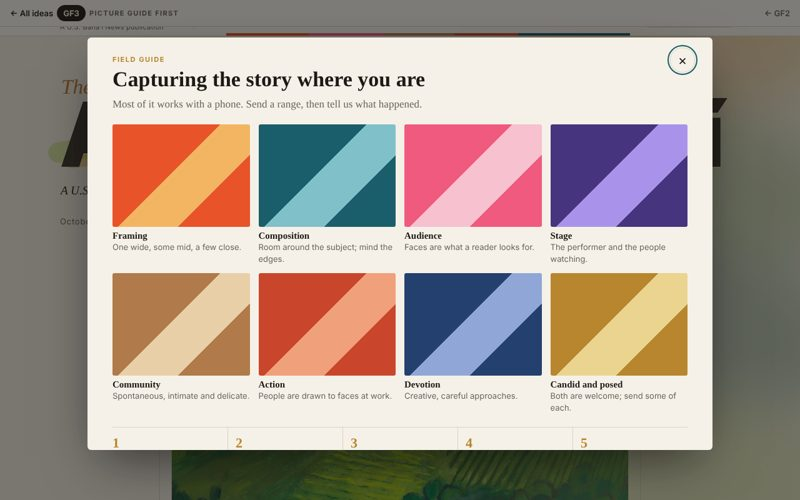
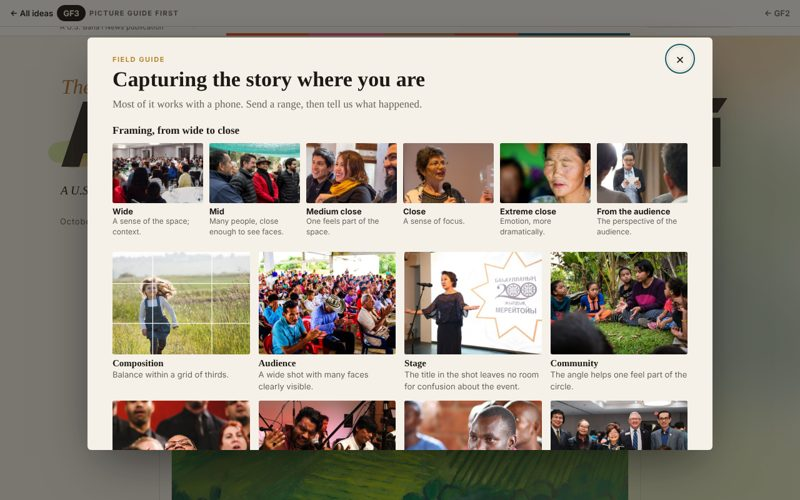
Labs guided forms: photographs from the Capturing Content guide
Claude-Session: https://claude.ai/code/session_01X5WmVuL6UKnR1PWG9zHA7Q

diff --git a/magazine/labs/form-pictures/index.html b/magazine/labs/form-pictures/index.html
@@ -112,11 +112,16 @@ textarea{resize:vertical}
 .p3f{border-top:3px double var(--ink,#1d1a16);padding-top:18px}
 @media (max-width:760px){.p1,.gs.ga,.g2{grid-template-columns:minmax(0,1fr)}.p1g{position:static}.gmom,.gbrs{grid-template-columns:repeat(2,minmax(0,1fr))}.ghb5{grid-template-columns:minmax(0,1fr)}.ghb5 li+li{border-left:0;border-top:1px solid var(--rule,#d6cebf);padding-left:0}.gstrip{grid-template-columns:repeat(4,minmax(0,1fr))}.gp-sw button{padding:10px 9px}.gp-sw button span{display:none}}
 
+.gstrip img,.gmom img,.gframe img,.grange img{display:block;width:100%;object-fit:cover;border-radius:3px;background:var(--rule,#e6dfd2)}
+.gstrip img{aspect-ratio:1}.gmom img{aspect-ratio:4/3}.gframe img{aspect-ratio:3/2}.grange img{aspect-ratio:3/2}
+.gfh{font:700 17px var(--text);margin:0 0 10px}.gframe{display:grid;grid-template-columns:repeat(6,minmax(0,1fr));gap:10px;margin:0 0 24px}.gframe figure,.grange figure{margin:0}.gframe figcaption{font:12px/1.35 var(--ui);color:var(--mute);margin-top:5px}.gframe b{display:block;color:var(--ink,#1d1a16);font:700 13px var(--ui)}
+.grange{display:grid;grid-template-columns:repeat(3,minmax(0,1fr));gap:6px;margin-top:6px}.grange figcaption{font:600 11px var(--ui);color:var(--mute);margin-top:3px}
+@media (max-width:760px){.gframe{grid-template-columns:repeat(3,minmax(0,1fr))}}
 .gp{padding-top:56px}.gbox{max-height:calc(100% - 8px)}.gtop{display:none}.gbox{padding-top:28px}
 .gx2{position:sticky;top:-28px;float:right;margin:-14px -8px 0 0;width:40px;height:40px;border:1px solid var(--rule,#d6cebf);background:var(--paper,#f5f1e8);border-radius:50%;font:400 22px/1 var(--ui);color:inherit;cursor:pointer;z-index:3}
 .reopen2{position:fixed;right:max(16px,env(safe-area-inset-right,0px));bottom:max(16px,env(safe-area-inset-bottom,0px));z-index:90;font:600 14px var(--ui);background:#23406f;color:#fff;border:0;border-radius:3px;padding:14px 18px;cursor:pointer}
 .gdone{padding:24px 0}.gdone h3{font:700 24px var(--text);margin:0 0 6px}.gdone p{font:17px/1.5 var(--text);color:var(--mute);margin:0}
-</style></head><body><nav class="bar0" aria-label="Guided forms"><a href="../">← All ideas</a><span class="cd">GF3</span><b>Picture guide first</b><span class="pn2"><a href="../form-steps/">← GF2</a></span></nav><iframe class="behind" src="../../" title="The magazine, behind the form" tabindex="-1" aria-hidden="true" inert></iframe><button type="button" class="reopen2" hidden>Send a story <span aria-hidden="true">→</span></button><div class="gp"><div class="gbk0"></div><div class="gbox" role="dialog" aria-modal="true" aria-label="Picture guide first"><button type="button" class="gx2" aria-label="Close">×</button><div class="p3"><p class="gk">Field guide</p><h2 class="gh">Capturing the story where you are</h2><p class="gl">Most of it works with a phone. Send a range, then tell us what happened.</p><div class="gmom"><figure><span style="background:linear-gradient(135deg,#e8532a 0 45%,#f3b562 45% 70%,#e8532a 70%)"></span><figcaption><b>Framing</b>One wide, some mid, a few close.</figcaption></figure><figure><span style="background:linear-gradient(135deg,#1b5e6b 0 45%,#7fc0c9 45% 70%,#1b5e6b 70%)"></span><figcaption><b>Composition</b>Room around the subject; mind the edges.</figcaption></figure><figure><span style="background:linear-gradient(135deg,#f05a7e 0 45%,#f7c1cf 45% 70%,#f05a7e 70%)"></span><figcaption><b>Audience</b>Faces are what a reader looks for.</figcaption></figure><figure><span style="background:linear-gradient(135deg,#46347e 0 45%,#a993ea 45% 70%,#46347e 70%)"></span><figcaption><b>Stage</b>The performer and the people watching.</figcaption></figure><figure><span style="background:linear-gradient(135deg,#b07a4a 0 45%,#e9cfa8 45% 70%,#b07a4a 70%)"></span><figcaption><b>Community</b>Spontaneous, intimate and delicate.</figcaption></figure><figure><span style="background:linear-gradient(135deg,#c9462c 0 45%,#f0a07a 45% 70%,#c9462c 70%)"></span><figcaption><b>Action</b>People are drawn to faces at work.</figcaption></figure><figure><span style="background:linear-gradient(135deg,#23406f 0 45%,#8fa6d6 45% 70%,#23406f 70%)"></span><figcaption><b>Devotion</b>Creative, careful approaches.</figcaption></figure><figure><span style="background:linear-gradient(135deg,#b8862e 0 45%,#ead48f 45% 70%,#b8862e 70%)"></span><figcaption><b>Candid and posed</b>Both are welcome; send some of each.</figcaption></figure></div><ol class="ghb5"><li><i>1</i>Be conscientious of your presence in the space</li><li><i>2</i>Keep a steady hand</li><li><i>3</i>Review your work on a bigger screen</li><li><i>4</i>Capture a series of angles</li><li><i>5</i>Be ready for spontaneous moments</li></ol><div class="p3f"><p class="gk">Contribute</p><h2 class="gh">Know a story like these?</h2><p class="gl">Please send us story ideas, article leads, photos of community activities, your field notes on how community building unfolds where you live, and what is being learned along the way.</p><section class="gs"><div><h3><i>1</i>What happened, and where</h3><label class="gf"><span>Where</span><input type="text" data-r="3" placeholder="Town or neighborhood, state"></label><label class="gf"><span>What happened</span><textarea rows="3" data-r="5"></textarea><small>A few paragraphs is plenty.</small></label></div></section><section class="gs"><div><h3><i>2</i>Who was there</h3><label class="gf"><span>Who was there</span><textarea rows="2"></textarea></label></div></section><section class="gs"><div><h3><i>3</i>A photograph or two</h3><label class="gdrop"><input type="file" multiple accept="image/jpeg,image/png" data-r="0"><b>Choose photographs</b><small>JPEG or PNG, as many as you like</small></label><label class="gf"><span>Photographer’s name</span><input type="text" data-r="1"></label></div></section><section class="gs"><div><h3><i>4</i>What you learned</h3><label class="gf"><span>What you learned</span><textarea rows="2" data-r="5"></textarea></label></div></section><div class="gab"><p class="gk">About you</p><div class="g2"><label class="gf"><span>Your name</span><input type="text"></label><label class="gf"><span>Email address</span><input type="email"></label></div><p class="gpr">We will get in touch and work with you before anything you share is used.</p><button type="button" class="gsend">Send your story</button></div></div></div></div></div><script>(function(){var D=document,P=D.querySelector('.gp'),R=D.querySelector('.reopen2');
+</style></head><body><nav class="bar0" aria-label="Guided forms"><a href="../">← All ideas</a><span class="cd">GF3</span><b>Picture guide first</b><span class="pn2"><a href="../form-steps/">← GF2</a></span></nav><iframe class="behind" src="../../" title="The magazine, behind the form" tabindex="-1" aria-hidden="true" inert></iframe><button type="button" class="reopen2" hidden>Send a story <span aria-hidden="true">→</span></button><div class="gp"><div class="gbk0"></div><div class="gbox" role="dialog" aria-modal="true" aria-label="Picture guide first"><button type="button" class="gx2" aria-label="Close">×</button><div class="p3"><p class="gk">Field guide</p><h2 class="gh">Capturing the story where you are</h2><p class="gl">Most of it works with a phone. Send a range, then tell us what happened.</p><h3 class="gfh">Framing, from wide to close</h3><div class="gframe"><figure><img src="../../img/guide/wide.jpg" alt="" loading="lazy"><figcaption><b>Wide</b>A sense of the space; context.</figcaption></figure><figure><img src="../../img/guide/mid.jpg" alt="" loading="lazy"><figcaption><b>Mid</b>Many people, close enough to see faces.</figcaption></figure><figure><img src="../../img/guide/medium-close.jpg" alt="" loading="lazy"><figcaption><b>Medium close</b>One feels part of the space.</figcaption></figure><figure><img src="../../img/guide/close.jpg" alt="" loading="lazy"><figcaption><b>Close</b>A sense of focus.</figcaption></figure><figure><img src="../../img/guide/extreme-close.jpg" alt="" loading="lazy"><figcaption><b>Extreme close</b>Emotion, more dramatically.</figcaption></figure><figure><img src="../../img/guide/audience-view.jpg" alt="" loading="lazy"><figcaption><b>From the audience</b>The perspective of the audience.</figcaption></figure></div><div class="gmom"><figure><img src="../../img/guide/thirds.jpg" alt="" loading="lazy"><figcaption><b>Composition</b>Balance within a grid of thirds.</figcaption></figure><figure><img src="../../img/guide/audience-wide.jpg" alt="" loading="lazy"><figcaption><b>Audience</b>A wide shot with many faces clearly visible.</figcaption></figure><figure><img src="../../img/guide/stage-title.jpg" alt="" loading="lazy"><figcaption><b>Stage</b>The title in the shot leaves no room for confusion about the event.</figcaption></figure><figure><img src="../../img/guide/circle.jpg" alt="" loading="lazy"><figcaption><b>Community</b>The angle helps one feel part of the circle.</figcaption></figure><figure><img src="../../img/guide/action-focus.jpg" alt="" loading="lazy"><figcaption><b>Action</b>Focus on one person, blur the rest.</figcaption></figure><figure><img src="../../img/guide/devotion.jpg" alt="" loading="lazy"><figcaption><b>Devotion</b>Different forms; creative, careful approaches.</figcaption></figure><figure><img src="../../img/guide/candid.jpg" alt="" loading="lazy"><figcaption><b>Candid</b>Both are welcome.</figcaption></figure><figure><img src="../../img/guide/posed.jpg" alt="" loading="lazy"><figcaption><b>Posed</b>No group is too small.</figcaption></figure></div><ol class="ghb5"><li><i>1</i>Be conscientious of your presence in the space</li><li><i>2</i>Keep a steady hand</li><li><i>3</i>Review your work on a bigger screen</li><li><i>4</i>Capture a series of angles</li><li><i>5</i>Be ready for spontaneous moments</li></ol><div class="p3f"><p class="gk">Contribute</p><h2 class="gh">Know a story like these?</h2><p class="gl">Please send us story ideas, article leads, photos of community activities, your field notes on how community building unfolds where you live, and what is being learned along the way.</p><section class="gs"><div><h3><i>1</i>What happened, and where</h3><label class="gf"><span>Where</span><input type="text" data-r="3" placeholder="Town or neighborhood, state"></label><label class="gf"><span>What happened</span><textarea rows="3" data-r="5"></textarea><small>A few paragraphs is plenty.</small></label></div></section><section class="gs"><div><h3><i>2</i>Who was there</h3><label class="gf"><span>Who was there</span><textarea rows="2"></textarea></label></div></section><section class="gs"><div><h3><i>3</i>A photograph or two</h3><label class="gdrop"><input type="file" multiple accept="image/jpeg,image/png" data-r="0"><b>Choose photographs</b><small>JPEG or PNG, as many as you like</small></label><label class="gf"><span>Photographer’s name</span><input type="text" data-r="1"></label></div></section><section class="gs"><div><h3><i>4</i>What you learned</h3><label class="gf"><span>What you learned</span><textarea rows="2" data-r="5"></textarea></label></div></section><div class="gab"><p class="gk">About you</p><div class="g2"><label class="gf"><span>Your name</span><input type="text"></label><label class="gf"><span>Email address</span><input type="email"></label></div><p class="gpr">We will get in touch and work with you before anything you share is used.</p><button type="button" class="gsend">Send your story</button></div></div></div></div></div><script>(function(){var D=document,P=D.querySelector('.gp'),R=D.querySelector('.reopen2');
 function op(){P.hidden=false;R.hidden=true;D.querySelector('.gx2').focus()}function cl(){P.hidden=true;R.hidden=false;R.focus()}
 D.querySelector('.gx2').onclick=cl;D.querySelector('.gbk0').onclick=cl;R.onclick=op;D.addEventListener('keydown',function(e){if(e.key==='Escape'&&!P.hidden)cl()});
 var p1=D.querySelector('.p1');if(p1){var tick=function(){var on=[0,0,0,0,0,0];[].forEach.call(p1.querySelectorAll('[data-r]'),function(f){var r=+f.dataset.r,v=f.type==='checkbox'?f.checked:f.type==='file'?f.files.length:f.value.trim();if(v){on[r]=1;if(r===0)on[4]=1}});

diff --git a/magazine/labs/form-steps/index.html b/magazine/labs/form-steps/index.html
@@ -112,11 +112,16 @@ textarea{resize:vertical}
 .p3f{border-top:3px double var(--ink,#1d1a16);padding-top:18px}
 @media (max-width:760px){.p1,.gs.ga,.g2{grid-template-columns:minmax(0,1fr)}.p1g{position:static}.gmom,.gbrs{grid-template-columns:repeat(2,minmax(0,1fr))}.ghb5{grid-template-columns:minmax(0,1fr)}.ghb5 li+li{border-left:0;border-top:1px solid var(--rule,#d6cebf);padding-left:0}.gstrip{grid-template-columns:repeat(4,minmax(0,1fr))}.gp-sw button{padding:10px 9px}.gp-sw button span{display:none}}
 
+.gstrip img,.gmom img,.gframe img,.grange img{display:block;width:100%;object-fit:cover;border-radius:3px;background:var(--rule,#e6dfd2)}
+.gstrip img{aspect-ratio:1}.gmom img{aspect-ratio:4/3}.gframe img{aspect-ratio:3/2}.grange img{aspect-ratio:3/2}
+.gfh{font:700 17px var(--text);margin:0 0 10px}.gframe{display:grid;grid-template-columns:repeat(6,minmax(0,1fr));gap:10px;margin:0 0 24px}.gframe figure,.grange figure{margin:0}.gframe figcaption{font:12px/1.35 var(--ui);color:var(--mute);margin-top:5px}.gframe b{display:block;color:var(--ink,#1d1a16);font:700 13px var(--ui)}
+.grange{display:grid;grid-template-columns:repeat(3,minmax(0,1fr));gap:6px;margin-top:6px}.grange figcaption{font:600 11px var(--ui);color:var(--mute);margin-top:3px}
+@media (max-width:760px){.gframe{grid-template-columns:repeat(3,minmax(0,1fr))}}
 .gp{padding-top:56px}.gbox{max-height:calc(100% - 8px)}.gtop{display:none}.gbox{padding-top:28px}
 .gx2{position:sticky;top:-28px;float:right;margin:-14px -8px 0 0;width:40px;height:40px;border:1px solid var(--rule,#d6cebf);background:var(--paper,#f5f1e8);border-radius:50%;font:400 22px/1 var(--ui);color:inherit;cursor:pointer;z-index:3}
 .reopen2{position:fixed;right:max(16px,env(safe-area-inset-right,0px));bottom:max(16px,env(safe-area-inset-bottom,0px));z-index:90;font:600 14px var(--ui);background:#23406f;color:#fff;border:0;border-radius:3px;padding:14px 18px;cursor:pointer}
 .gdone{padding:24px 0}.gdone h3{font:700 24px var(--text);margin:0 0 6px}.gdone p{font:17px/1.5 var(--text);color:var(--mute);margin:0}
-</style></head><body><nav class="bar0" aria-label="Guided forms"><a href="../">← All ideas</a><span class="cd">GF2</span><b>Guidance at each step</b><span class="pn2"><a href="../form-beside/">← GF1</a><a href="../form-pictures/">GF3 →</a></span></nav><iframe class="behind" src="../../" title="The magazine, behind the form" tabindex="-1" aria-hidden="true" inert></iframe><button type="button" class="reopen2" hidden>Send a story <span aria-hidden="true">→</span></button><div class="gp"><div class="gbk0"></div><div class="gbox" role="dialog" aria-modal="true" aria-label="Guidance at each step"><button type="button" class="gx2" aria-label="Close">×</button><div class="p2"><p class="gk">Contribute</p><h2 class="gh">Know a story like these?</h2><p class="gl">Please send us story ideas, article leads, photos of community activities, your field notes on how community building unfolds where you live, and what is being learned along the way.</p><section class="gs ga"><div><h3><i>1</i>What happened, and where</h3><label class="gf"><span>Where</span><input type="text" data-r="3" placeholder="Town or neighborhood, state"></label><label class="gf"><span>What happened</span><textarea rows="3" data-r="5"></textarea><small>A few paragraphs is plenty.</small></label></div><aside><p class="gru"><b>Say where and when</b>Town or neighborhood, state, and the date.</p></aside></section><section class="gs ga"><div><h3><i>2</i>Who was there</h3><label class="gf"><span>Who was there</span><textarea rows="2"></textarea></label></div><aside><p class="gru"><b>Ask first</b>Everyone recognizable has agreed to be pictured. For children, a parent or guardian, and first names only.</p></aside></section><section class="gs ga"><div><h3><i>3</i>A photograph or two</h3><div class="gstrip" aria-label="Eight kinds of moment"><figure><span style="background:linear-gradient(135deg,#e8532a 0 45%,#f3b562 45% 70%,#e8532a 70%)"></span><figcaption>Framing</figcaption></figure><figure><span style="background:linear-gradient(135deg,#1b5e6b 0 45%,#7fc0c9 45% 70%,#1b5e6b 70%)"></span><figcaption>Composition</figcaption></figure><figure><span style="background:linear-gradient(135deg,#f05a7e 0 45%,#f7c1cf 45% 70%,#f05a7e 70%)"></span><figcaption>Audience</figcaption></figure><figure><span style="background:linear-gradient(135deg,#46347e 0 45%,#a993ea 45% 70%,#46347e 70%)"></span><figcaption>Stage</figcaption></figure><figure><span style="background:linear-gradient(135deg,#b07a4a 0 45%,#e9cfa8 45% 70%,#b07a4a 70%)"></span><figcaption>Community</figcaption></figure><figure><span style="background:linear-gradient(135deg,#c9462c 0 45%,#f0a07a 45% 70%,#c9462c 70%)"></span><figcaption>Action</figcaption></figure><figure><span style="background:linear-gradient(135deg,#23406f 0 45%,#8fa6d6 45% 70%,#23406f 70%)"></span><figcaption>Devotion</figcaption></figure><figure><span style="background:linear-gradient(135deg,#b8862e 0 45%,#ead48f 45% 70%,#b8862e 70%)"></span><figcaption>Candid and posed</figcaption></figure></div><label class="gdrop"><input type="file" multiple accept="image/jpeg,image/png" data-r="0"><b>Choose photographs</b><small>JPEG or PNG, as many as you like</small></label><label class="gf"><span>Photographer’s name</span><input type="text" data-r="1"></label></div><aside><p class="gru"><b>Send originals</b>Full-size files straight from the camera or phone, not screenshots or messaging copies.</p><p class="gru"><b>Name the photographer</b>Every picture carries a credit.</p><p class="gru"><b>Video</b>Steady and horizontal for the library; vertical welcome for social. Ten seconds per shot or longer.</p></aside></section><section class="gs ga"><div><h3><i>4</i>What you learned</h3><label class="gf"><span>What you learned</span><textarea rows="2" data-r="5"></textarea></label></div><aside><p class="gru"><b>A few lines</b>What happened and why it mattered, in your own words and in any language.</p></aside></section><div class="gab"><p class="gk">About you</p><div class="g2"><label class="gf"><span>Your name</span><input type="text"></label><label class="gf"><span>Email address</span><input type="email"></label></div><p class="gpr">We will get in touch and work with you before anything you share is used.</p><button type="button" class="gsend">Send your story</button></div></div></div></div><script>(function(){var D=document,P=D.querySelector('.gp'),R=D.querySelector('.reopen2');
+</style></head><body><nav class="bar0" aria-label="Guided forms"><a href="../">← All ideas</a><span class="cd">GF2</span><b>Guidance at each step</b><span class="pn2"><a href="../form-beside/">← GF1</a><a href="../form-pictures/">GF3 →</a></span></nav><iframe class="behind" src="../../" title="The magazine, behind the form" tabindex="-1" aria-hidden="true" inert></iframe><button type="button" class="reopen2" hidden>Send a story <span aria-hidden="true">→</span></button><div class="gp"><div class="gbk0"></div><div class="gbox" role="dialog" aria-modal="true" aria-label="Guidance at each step"><button type="button" class="gx2" aria-label="Close">×</button><div class="p2"><p class="gk">Contribute</p><h2 class="gh">Know a story like these?</h2><p class="gl">Please send us story ideas, article leads, photos of community activities, your field notes on how community building unfolds where you live, and what is being learned along the way.</p><section class="gs ga"><div><h3><i>1</i>What happened, and where</h3><label class="gf"><span>Where</span><input type="text" data-r="3" placeholder="Town or neighborhood, state"></label><label class="gf"><span>What happened</span><textarea rows="3" data-r="5"></textarea><small>A few paragraphs is plenty.</small></label></div><aside><p class="gru"><b>Say where and when</b>Town or neighborhood, state, and the date.</p></aside></section><section class="gs ga"><div><h3><i>2</i>Who was there</h3><label class="gf"><span>Who was there</span><textarea rows="2"></textarea></label></div><aside><p class="gru"><b>Ask first</b>Everyone recognizable has agreed to be pictured. For children, a parent or guardian, and first names only.</p></aside></section><section class="gs ga"><div><h3><i>3</i>A photograph or two</h3><div class="gstrip" aria-label="Eight kinds of moment"><figure><img src="../../img/guide/wide.jpg" alt="" loading="lazy"><figcaption>Framing</figcaption></figure><figure><img src="../../img/guide/thirds.jpg" alt="" loading="lazy"><figcaption>Composition</figcaption></figure><figure><img src="../../img/guide/reaction.jpg" alt="" loading="lazy"><figcaption>Audience</figcaption></figure><figure><img src="../../img/guide/stage-title.jpg" alt="" loading="lazy"><figcaption>Stage</figcaption></figure><figure><img src="../../img/guide/circle.jpg" alt="" loading="lazy"><figcaption>Community</figcaption></figure><figure><img src="../../img/guide/action-focus.jpg" alt="" loading="lazy"><figcaption>Action</figcaption></figure><figure><img src="../../img/guide/devotion.jpg" alt="" loading="lazy"><figcaption>Devotion</figcaption></figure><figure><img src="../../img/guide/candid.jpg" alt="" loading="lazy"><figcaption>Candid and posed</figcaption></figure></div><label class="gdrop"><input type="file" multiple accept="image/jpeg,image/png" data-r="0"><b>Choose photographs</b><small>JPEG or PNG, as many as you like</small></label><label class="gf"><span>Photographer’s name</span><input type="text" data-r="1"></label></div><aside><p class="gru"><b>Send originals</b>Full-size files straight from the camera or phone, not screenshots or messaging copies.</p><p class="gru"><b>Name the photographer</b>Every picture carries a credit.</p><p class="gru"><b>Video</b>Steady and horizontal for the library; vertical welcome for social. Ten seconds per shot or longer.</p></aside></section><section class="gs ga"><div><h3><i>4</i>What you learned</h3><label class="gf"><span>What you learned</span><textarea rows="2" data-r="5"></textarea></label></div><aside><p class="gru"><b>A few lines</b>What happened and why it mattered, in your own words and in any language.</p></aside></section><div class="gab"><p class="gk">About you</p><div class="g2"><label class="gf"><span>Your name</span><input type="text"></label><label class="gf"><span>Email address</span><input type="email"></label></div><p class="gpr">We will get in touch and work with you before anything you share is used.</p><button type="button" class="gsend">Send your story</button></div></div></div></div><script>(function(){var D=document,P=D.querySelector('.gp'),R=D.querySelector('.reopen2');
 function op(){P.hidden=false;R.hidden=true;D.querySelector('.gx2').focus()}function cl(){P.hidden=true;R.hidden=false;R.focus()}
 D.querySelector('.gx2').onclick=cl;D.querySelector('.gbk0').onclick=cl;R.onclick=op;D.addEventListener('keydown',function(e){if(e.key==='Escape'&&!P.hidden)cl()});
 var p1=D.querySelector('.p1');if(p1){var tick=function(){var on=[0,0,0,0,0,0];[].forEach.call(p1.querySelectorAll('[data-r]'),function(f){var r=+f.dataset.r,v=f.type==='checkbox'?f.checked:f.type==='file'?f.files.length:f.value.trim();if(v){on[r]=1;if(r===0)on[4]=1}});

diff --git a/magazine/labs/form-beside/index.html b/magazine/labs/form-beside/index.html
@@ -112,11 +112,16 @@ textarea{resize:vertical}
 .p3f{border-top:3px double var(--ink,#1d1a16);padding-top:18px}
 @media (max-width:760px){.p1,.gs.ga,.g2{grid-template-columns:minmax(0,1fr)}.p1g{position:static}.gmom,.gbrs{grid-template-columns:repeat(2,minmax(0,1fr))}.ghb5{grid-template-columns:minmax(0,1fr)}.ghb5 li+li{border-left:0;border-top:1px solid var(--rule,#d6cebf);padding-left:0}.gstrip{grid-template-columns:repeat(4,minmax(0,1fr))}.gp-sw button{padding:10px 9px}.gp-sw button span{display:none}}
 
+.gstrip img,.gmom img,.gframe img,.grange img{display:block;width:100%;object-fit:cover;border-radius:3px;background:var(--rule,#e6dfd2)}
+.gstrip img{aspect-ratio:1}.gmom img{aspect-ratio:4/3}.gframe img{aspect-ratio:3/2}.grange img{aspect-ratio:3/2}
+.gfh{font:700 17px var(--text);margin:0 0 10px}.gframe{display:grid;grid-template-columns:repeat(6,minmax(0,1fr));gap:10px;margin:0 0 24px}.gframe figure,.grange figure{margin:0}.gframe figcaption{font:12px/1.35 var(--ui);color:var(--mute);margin-top:5px}.gframe b{display:block;color:var(--ink,#1d1a16);font:700 13px var(--ui)}
+.grange{display:grid;grid-template-columns:repeat(3,minmax(0,1fr));gap:6px;margin-top:6px}.grange figcaption{font:600 11px var(--ui);color:var(--mute);margin-top:3px}
+@media (max-width:760px){.gframe{grid-template-columns:repeat(3,minmax(0,1fr))}}
 .gp{padding-top:56px}.gbox{max-height:calc(100% - 8px)}.gtop{display:none}.gbox{padding-top:28px}
 .gx2{position:sticky;top:-28px;float:right;margin:-14px -8px 0 0;width:40px;height:40px;border:1px solid var(--rule,#d6cebf);background:var(--paper,#f5f1e8);border-radius:50%;font:400 22px/1 var(--ui);color:inherit;cursor:pointer;z-index:3}
 .reopen2{position:fixed;right:max(16px,env(safe-area-inset-right,0px));bottom:max(16px,env(safe-area-inset-bottom,0px));z-index:90;font:600 14px var(--ui);background:#23406f;color:#fff;border:0;border-radius:3px;padding:14px 18px;cursor:pointer}
 .gdone{padding:24px 0}.gdone h3{font:700 24px var(--text);margin:0 0 6px}.gdone p{font:17px/1.5 var(--text);color:var(--mute);margin:0}
-</style></head><body><nav class="bar0" aria-label="Guided forms"><a href="../">← All ideas</a><span class="cd">GF1</span><b>Guide beside the form</b><span class="pn2"><a href="../form-steps/">GF2 →</a></span></nav><iframe class="behind" src="../../" title="The magazine, behind the form" tabindex="-1" aria-hidden="true" inert></iframe><button type="button" class="reopen2" hidden>Send a story <span aria-hidden="true">→</span></button><div class="gp"><div class="gbk0"></div><div class="gbox" role="dialog" aria-modal="true" aria-label="Guide beside the form"><button type="button" class="gx2" aria-label="Close">×</button><div class="p1"><div class="p1f"><p class="gk">Contribute</p><h2 class="gh">Know a story like these?</h2><p class="gl">Please send us story ideas, article leads, photos of community activities, your field notes on how community building unfolds where you live, and what is being learned along the way.</p><section class="gs"><div><h3><i>1</i>What happened, and where</h3><label class="gf"><span>Where</span><input type="text" data-r="3" placeholder="Town or neighborhood, state"></label><label class="gf"><span>What happened</span><textarea rows="3" data-r="5"></textarea><small>A few paragraphs is plenty.</small></label></div></section><section class="gs"><div><h3><i>2</i>Who was there</h3><label class="gf"><span>Who was there</span><textarea rows="2"></textarea></label></div></section><section class="gs"><div><h3><i>3</i>A photograph or two</h3><label class="gdrop"><input type="file" multiple accept="image/jpeg,image/png" data-r="0"><b>Choose photographs</b><small>JPEG or PNG, as many as you like</small></label><label class="gf"><span>Photographer’s name</span><input type="text" data-r="1"></label></div></section><section class="gs"><div><h3><i>4</i>What you learned</h3><label class="gf"><span>What you learned</span><textarea rows="2" data-r="5"></textarea></label></div></section><div class="gab"><p class="gk">About you</p><div class="g2"><label class="gf"><span>Your name</span><input type="text"></label><label class="gf"><span>Email address</span><input type="email"></label></div><p class="gpr">We will get in touch and work with you before anything you share is used.</p><button type="button" class="gsend">Send your story</button></div></div><aside class="p1g"><p class="gk">Before you send</p><p class="gready"><b>0</b> of 6 ready</p><ol class="grl"><li data-i="0"><span class="ck" aria-hidden="true"></span><div><b>Send originals</b><small>Full-size files straight from the camera or phone, not screenshots or messaging copies.</small></div></li><li data-i="1"><span class="ck" aria-hidden="true"></span><div><b>Name the photographer</b><small>Every picture carries a credit.</small></div></li><li data-i="2"><span class="ck" aria-hidden="true"></span><div><b>Ask first</b><small>Everyone recognizable has agreed to be pictured. For children, a parent or guardian, and first names only.</small><label class="gask"><input type="checkbox" data-r="2"> Everyone pictured has agreed</label></div></li><li data-i="3"><span class="ck" aria-hidden="true"></span><div><b>Say where and when</b><small>Town or neighborhood, state, and the date.</small></div></li><li data-i="4"><span class="ck" aria-hidden="true"></span><div><b>Video</b><small>Steady and horizontal for the library; vertical welcome for social. Ten seconds per shot or longer.</small><em>if you send any</em></div></li><li data-i="5"><span class="ck" aria-hidden="true"></span><div><b>A few lines</b><small>What happened and why it mattered, in your own words and in any language.</small></div></li></ol><p class="gk" style="margin-top:18px">Five habits</p><ol class="ghb"><li>Be conscientious of your presence in the space</li><li>Keep a steady hand</li><li>Review your work on a bigger screen</li><li>Capture a series of angles</li><li>Be ready for spontaneous moments</li></ol></aside></div></div></div><script>(function(){var D=document,P=D.querySelector('.gp'),R=D.querySelector('.reopen2');
+</style></head><body><nav class="bar0" aria-label="Guided forms"><a href="../">← All ideas</a><span class="cd">GF1</span><b>Guide beside the form</b><span class="pn2"><a href="../form-steps/">GF2 →</a></span></nav><iframe class="behind" src="../../" title="The magazine, behind the form" tabindex="-1" aria-hidden="true" inert></iframe><button type="button" class="reopen2" hidden>Send a story <span aria-hidden="true">→</span></button><div class="gp"><div class="gbk0"></div><div class="gbox" role="dialog" aria-modal="true" aria-label="Guide beside the form"><button type="button" class="gx2" aria-label="Close">×</button><div class="p1"><div class="p1f"><p class="gk">Contribute</p><h2 class="gh">Know a story like these?</h2><p class="gl">Please send us story ideas, article leads, photos of community activities, your field notes on how community building unfolds where you live, and what is being learned along the way.</p><section class="gs"><div><h3><i>1</i>What happened, and where</h3><label class="gf"><span>Where</span><input type="text" data-r="3" placeholder="Town or neighborhood, state"></label><label class="gf"><span>What happened</span><textarea rows="3" data-r="5"></textarea><small>A few paragraphs is plenty.</small></label></div></section><section class="gs"><div><h3><i>2</i>Who was there</h3><label class="gf"><span>Who was there</span><textarea rows="2"></textarea></label></div></section><section class="gs"><div><h3><i>3</i>A photograph or two</h3><label class="gdrop"><input type="file" multiple accept="image/jpeg,image/png" data-r="0"><b>Choose photographs</b><small>JPEG or PNG, as many as you like</small></label><label class="gf"><span>Photographer’s name</span><input type="text" data-r="1"></label></div></section><section class="gs"><div><h3><i>4</i>What you learned</h3><label class="gf"><span>What you learned</span><textarea rows="2" data-r="5"></textarea></label></div></section><div class="gab"><p class="gk">About you</p><div class="g2"><label class="gf"><span>Your name</span><input type="text"></label><label class="gf"><span>Email address</span><input type="email"></label></div><p class="gpr">We will get in touch and work with you before anything you share is used.</p><button type="button" class="gsend">Send your story</button></div></div><aside class="p1g"><p class="gk">Before you send</p><p class="gready"><b>0</b> of 6 ready</p><ol class="grl"><li data-i="0"><span class="ck" aria-hidden="true"></span><div><b>Send originals</b><small>Full-size files straight from the camera or phone, not screenshots or messaging copies.</small></div></li><li data-i="1"><span class="ck" aria-hidden="true"></span><div><b>Name the photographer</b><small>Every picture carries a credit.</small></div></li><li data-i="2"><span class="ck" aria-hidden="true"></span><div><b>Ask first</b><small>Everyone recognizable has agreed to be pictured. For children, a parent or guardian, and first names only.</small><label class="gask"><input type="checkbox" data-r="2"> Everyone pictured has agreed</label></div></li><li data-i="3"><span class="ck" aria-hidden="true"></span><div><b>Say where and when</b><small>Town or neighborhood, state, and the date.</small></div></li><li data-i="4"><span class="ck" aria-hidden="true"></span><div><b>Video</b><small>Steady and horizontal for the library; vertical welcome for social. Ten seconds per shot or longer.</small><em>if you send any</em></div></li><li data-i="5"><span class="ck" aria-hidden="true"></span><div><b>A few lines</b><small>What happened and why it mattered, in your own words and in any language.</small></div></li></ol><p class="gk" style="margin-top:18px">Five habits</p><ol class="ghb"><li>Be conscientious of your presence in the space</li><li>Keep a steady hand</li><li>Review your work on a bigger screen</li><li>Capture a series of angles</li><li>Be ready for spontaneous moments</li></ol><p class="gk" style="margin-top:18px">Send a range</p><div class="grange"><figure><img src="../../img/guide/wide.jpg" alt="" loading="lazy"><figcaption>Wide</figcaption></figure><figure><img src="../../img/guide/mid.jpg" alt="" loading="lazy"><figcaption>Mid</figcaption></figure><figure><img src="../../img/guide/close.jpg" alt="" loading="lazy"><figcaption>Close</figcaption></figure></div></aside></div></div></div><script>(function(){var D=document,P=D.querySelector('.gp'),R=D.querySelector('.reopen2');
 function op(){P.hidden=false;R.hidden=true;D.querySelector('.gx2').focus()}function cl(){P.hidden=true;R.hidden=false;R.focus()}
 D.querySelector('.gx2').onclick=cl;D.querySelector('.gbk0').onclick=cl;R.onclick=op;D.addEventListener('keydown',function(e){if(e.key==='Escape'&&!P.hidden)cl()});
 var p1=D.querySelector('.p1');if(p1){var tick=function(){var on=[0,0,0,0,0,0];[].forEach.call(p1.querySelectorAll('[data-r]'),function(f){var r=+f.dataset.r,v=f.type==='checkbox'?f.checked:f.type==='file'?f.files.length:f.value.trim();if(v){on[r]=1;if(r===0)on[4]=1}});

diff --git a/build/guided_forms.py b/build/guided_forms.py
@@ -6,6 +6,15 @@ RULES = [("Send originals", "Full-size files straight from the camera or phone, 
          ("Video", "Steady and horizontal for the library; vertical welcome for social. Ten seconds per shot or longer."),
          ("A few lines", "What happened and why it mattered, in your own words and in any language.")]
 HABITS = ["Be conscientious of your presence in the space", "Keep a steady hand", "Review your work on a bigger screen", "Capture a series of angles", "Be ready for spontaneous moments"]
+IMG = "../../img/guide/"
+FRAME = [("wide", "Wide", "A sense of the space; context."), ("mid", "Mid", "Many people, close enough to see faces."), ("medium-close", "Medium close", "One feels part of the space."),
+         ("close", "Close", "A sense of focus."), ("extreme-close", "Extreme close", "Emotion, more dramatically."), ("audience-view", "From the audience", "The perspective of the audience.")]
+SHOTS = [("thirds", "Composition", "Balance within a grid of thirds."), ("audience-wide", "Audience", "A wide shot with many faces clearly visible."),
+         ("stage-title", "Stage", "The title in the shot leaves no room for confusion about the event."), ("circle", "Community", "The angle helps one feel part of the circle."),
+         ("action-focus", "Action", "Focus on one person, blur the rest."), ("devotion", "Devotion", "Different forms; creative, careful approaches."),
+         ("candid", "Candid", "Both are welcome."), ("posed", "Posed", "No group is too small.")]
+STRIP = ["wide", "thirds", "reaction", "stage-title", "circle", "action-focus", "devotion", "candid"]
+def ph(f, alt=""): return f'<img src="{IMG}{f}.jpg" alt="{alt}" loading="lazy">'
 MOM = [("Framing", "One wide, some mid, a few close.", "#e8532a", "#f3b562"),
        ("Composition", "Room around the subject; mind the edges.", "#1b5e6b", "#7fc0c9"),
        ("Audience", "Faces are what a reader looks for.", "#f05a7e", "#f7c1cf"),
@@ -42,17 +51,19 @@ def form(asides=None):
 # P1 guide beside the form, rules tick as fields fill
 p1_rules = "".join(f'<li data-i="{i}"><span class="ck" aria-hidden="true"></span><div><b>{a}</b><small>{b}</small>' + ('<label class="gask"><input type="checkbox" data-r="2"> Everyone pictured has agreed</label>' if i == 2 else '') + ('<em>if you send any</em>' if i == 4 else '') + '</div></li>' for i, (a, b) in enumerate(RULES))
 P1 = (f'<div class="p1"><div class="p1f">{HEAD}{form()}</div><aside class="p1g"><p class="gk">Before you send</p><p class="gready"><b>0</b> of 6 ready</p><ol class="grl">{p1_rules}</ol>'
-      '<p class="gk" style="margin-top:18px">Five habits</p><ol class="ghb">' + "".join(f"<li>{x}</li>" for x in HABITS) + '</ol></aside></div>')
+      '<p class="gk" style="margin-top:18px">Five habits</p><ol class="ghb">' + "".join(f"<li>{x}</li>" for x in HABITS) + '</ol>'
+      '<p class="gk" style="margin-top:18px">Send a range</p><div class="grange">' + "".join(f'<figure>{ph(f)}<figcaption>{n}</figcaption></figure>' for f, n, d in (FRAME[0], FRAME[1], FRAME[3])) + '</div></aside></div>')
 
 # P2 guidance at each step
 def rule(i, extra=""): a, b = RULES[i]; return f'<p class="gru"><b>{a}</b>{b}{extra}</p>'
-strip = '<div class="gstrip" aria-label="Eight kinds of moment">' + "".join(f'<figure><span style="{sw(c1, c2)}"></span><figcaption>{t}</figcaption></figure>' for t, d, c1, c2 in MOM) + '</div>'
+strip = '<div class="gstrip" aria-label="Eight kinds of moment">' + "".join(f'<figure>{ph(f)}<figcaption>{t}</figcaption></figure>' for f, (t, d, c1, c2) in zip(STRIP, MOM)) + '</div>'
 P2 = (f'<div class="p2">{HEAD}' + form({1: '<aside>' + rule(3) + '</aside>', 2: '<aside>' + rule(2) + '</aside>',
        3: '<aside>' + rule(0) + rule(1) + rule(4) + '</aside>', 4: '<aside>' + rule(5) + '</aside>'}).replace('<label class="gdrop">', strip + '<label class="gdrop">', 1) + '</div>')
 
 # P3 picture guide first
 P3 = ('<div class="p3"><p class="gk">Field guide</p><h2 class="gh">Capturing the story where you are</h2><p class="gl">Most of it works with a phone. Send a range, then tell us what happened.</p>'
-      '<div class="gmom">' + "".join(f'<figure><span style="{sw(c1, c2)}"></span><figcaption><b>{t}</b>{d}</figcaption></figure>' for t, d, c1, c2 in MOM) + '</div>'
+      '<h3 class="gfh">Framing, from wide to close</h3><div class="gframe">' + "".join(f'<figure>{ph(f)}<figcaption><b>{n}</b>{d}</figcaption></figure>' for f, n, d in FRAME) + '</div>'
+      '<div class="gmom">' + "".join(f'<figure>{ph(f)}<figcaption><b>{t}</b>{d}</figcaption></figure>' for f, t, d in SHOTS) + '</div>'
       '<ol class="ghb5">' + "".join(f"<li><i>{i + 1}</i>{x}</li>" for i, x in enumerate(HABITS)) + '</ol>'
       f'<div class="p3f">{HEAD}{form()}</div></div>')
 
@@ -96,6 +107,11 @@ V = [("GF1", "form-beside", "Guide beside the form", "The four steps on the left
      ("GF3", "form-pictures", "Picture guide first", "The eight kinds of moment and the five habits come first, the form follows on the same scroll.", P3)]
 
 CSS += r"""
+.gstrip img,.gmom img,.gframe img,.grange img{display:block;width:100%;object-fit:cover;border-radius:3px;background:var(--rule,#e6dfd2)}
+.gstrip img{aspect-ratio:1}.gmom img{aspect-ratio:4/3}.gframe img{aspect-ratio:3/2}.grange img{aspect-ratio:3/2}
+.gfh{font:700 17px var(--text);margin:0 0 10px}.gframe{display:grid;grid-template-columns:repeat(6,minmax(0,1fr));gap:10px;margin:0 0 24px}.gframe figure,.grange figure{margin:0}.gframe figcaption{font:12px/1.35 var(--ui);color:var(--mute);margin-top:5px}.gframe b{display:block;color:var(--ink,#1d1a16);font:700 13px var(--ui)}
+.grange{display:grid;grid-template-columns:repeat(3,minmax(0,1fr));gap:6px;margin-top:6px}.grange figcaption{font:600 11px var(--ui);color:var(--mute);margin-top:3px}
+@media (max-width:760px){.gframe{grid-template-columns:repeat(3,minmax(0,1fr))}}
 .gp{padding-top:56px}.gbox{max-height:calc(100% - 8px)}.gtop{display:none}.gbox{padding-top:28px}
 .gx2{position:sticky;top:-28px;float:right;margin:-14px -8px 0 0;width:40px;height:40px;border:1px solid var(--rule,#d6cebf);background:var(--paper,#f5f1e8);border-radius:50%;font:400 22px/1 var(--ui);color:inherit;cursor:pointer;z-index:3}
 .reopen2{position:fixed;right:max(16px,env(safe-area-inset-right,0px));bottom:max(16px,env(safe-area-inset-bottom,0px));z-index:90;font:600 14px var(--ui);background:#23406f;color:#fff;border:0;border-radius:3px;padding:14px 18px;cursor:pointer}

diff --git a/build/stories_gallery.py b/build/stories_gallery.py
@@ -383,6 +383,7 @@ if __name__ == "__main__":
     json.dump([x["slug"] for x in ANIMS], open(os.path.join(OUT, "anim_slugs.json"), "w"))
     open(os.path.join(OUT, "index.html"), "w").write(gallery())
     import shutil; shutil.copy(os.path.join(D, "vendor", "qrcode.min.js"), OUT)  # qrcodejs 1.0.0, MIT
+    shutil.copytree(os.path.join(D, "stories_guide"), os.path.join(OUT, "..", "img", "guide"), dirs_exist_ok=True)  # photographs from the Capturing Content guide, for the guided forms
     shutil.copytree(os.path.join(D, "stories_thumbs"), os.path.join(OUT, "thumbs"), dirs_exist_ok=True)  # screenshots of each idea page, refreshed by hand
     json.dump([x["slug"] for x in IDEAS], open(os.path.join(OUT, "slugs.json"), "w"))
     json.dump([x["slug"] for x in RFCS], open(os.path.join(OUT, "rfc_slugs.json"), "w"))
